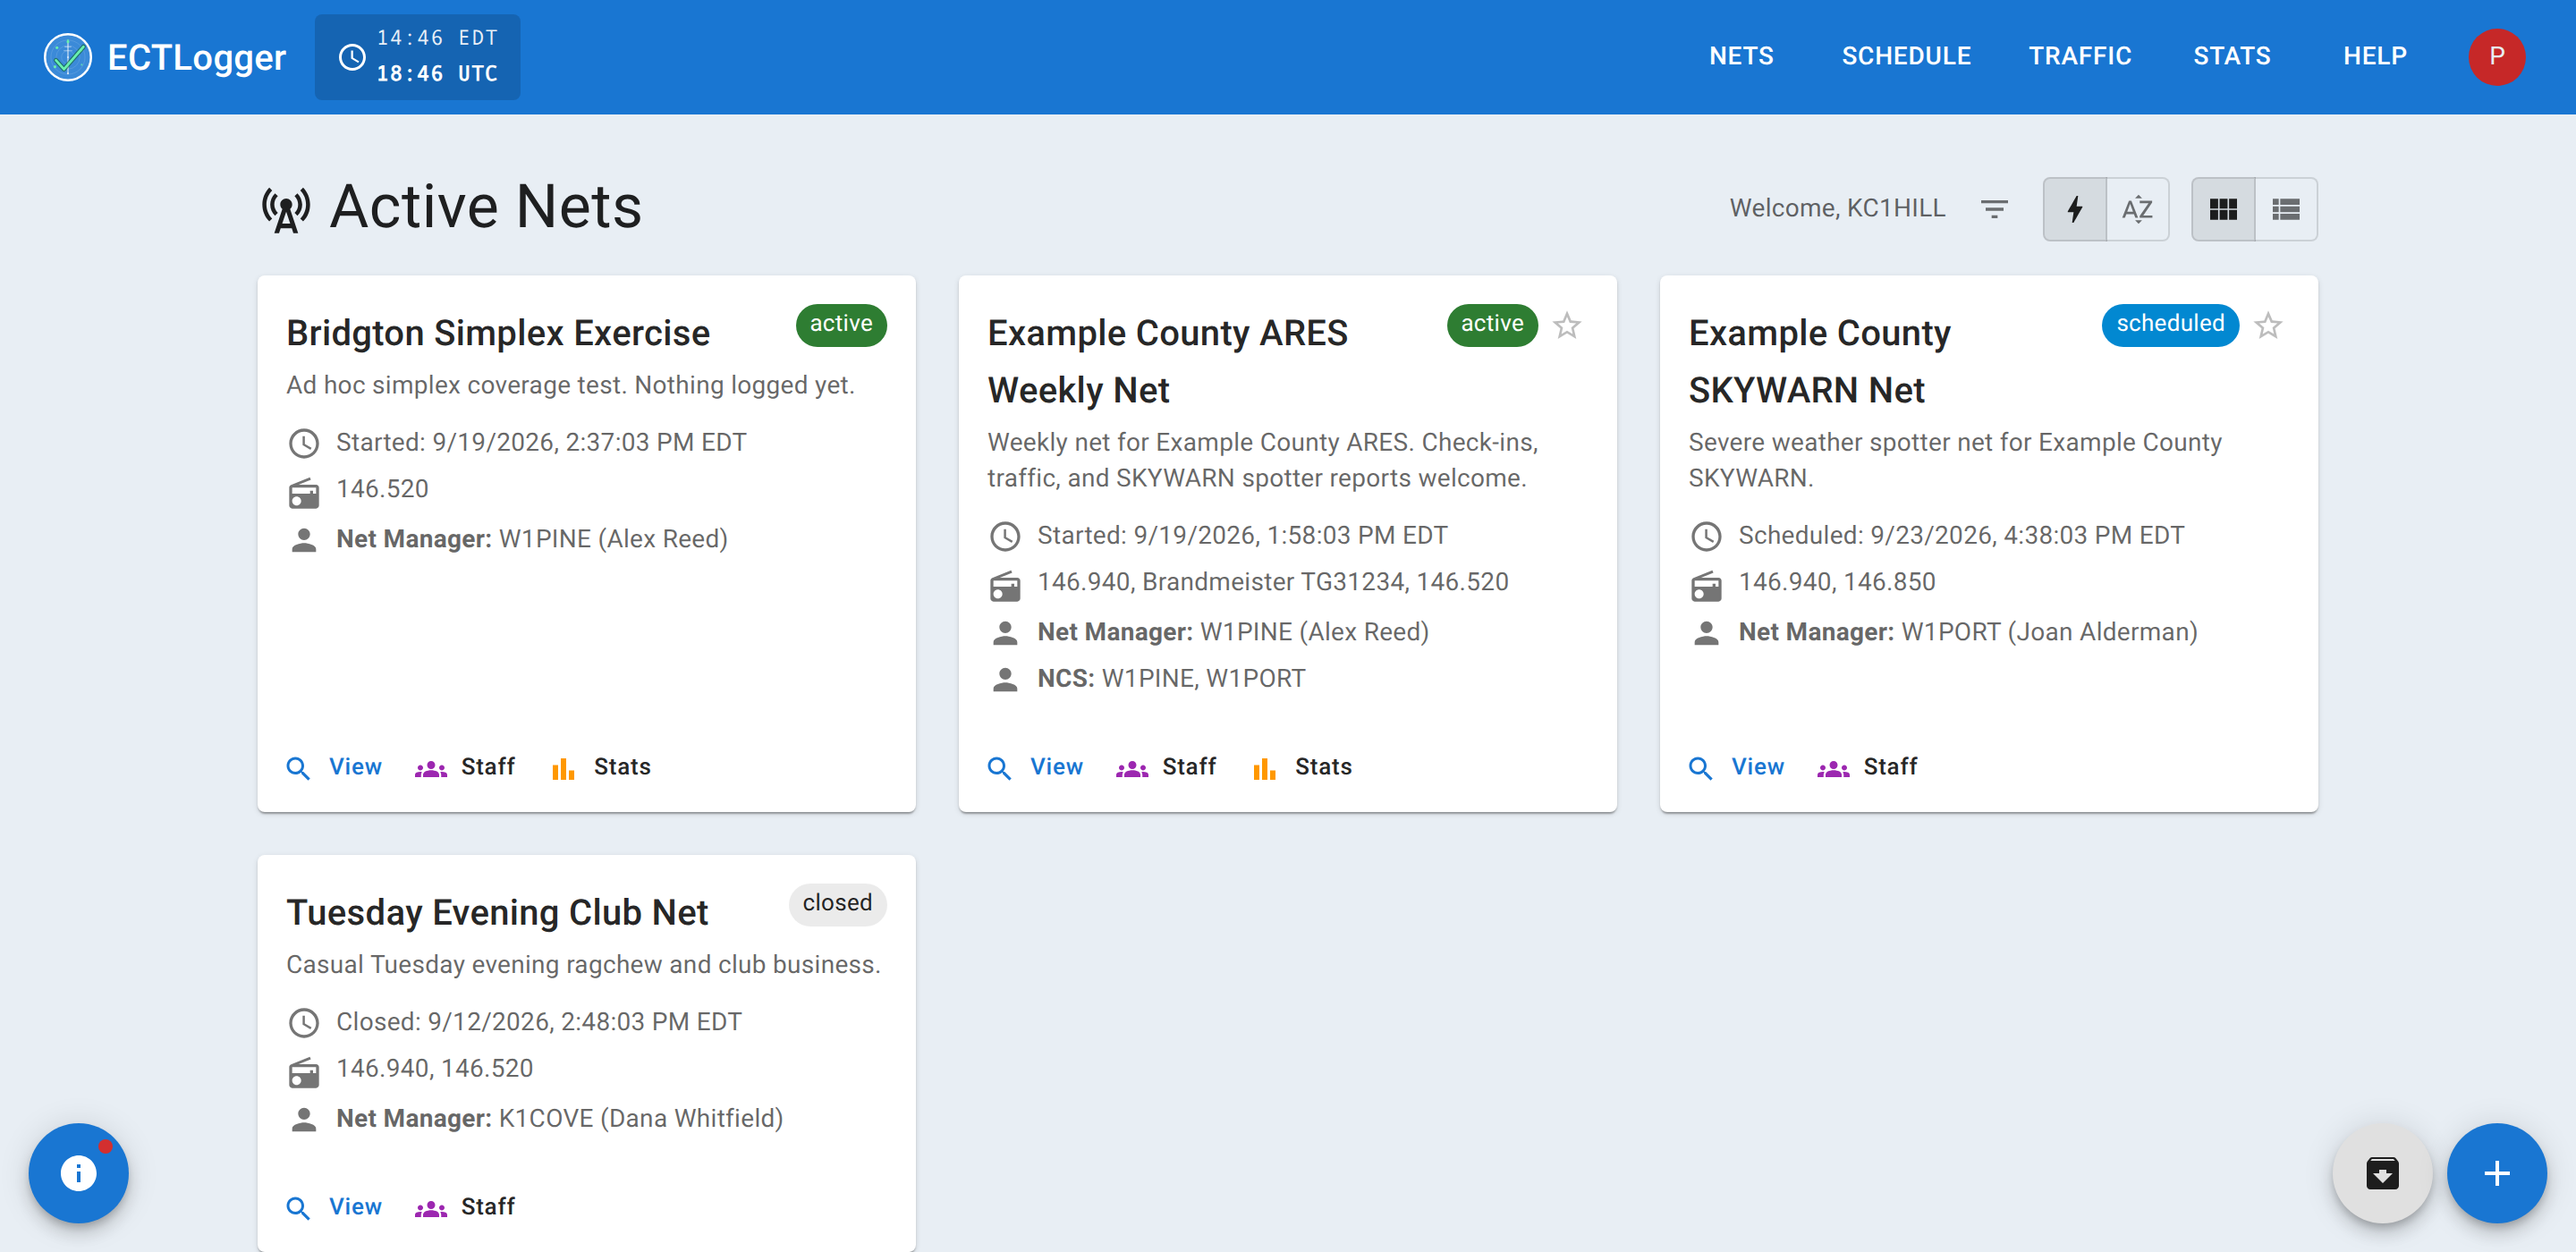
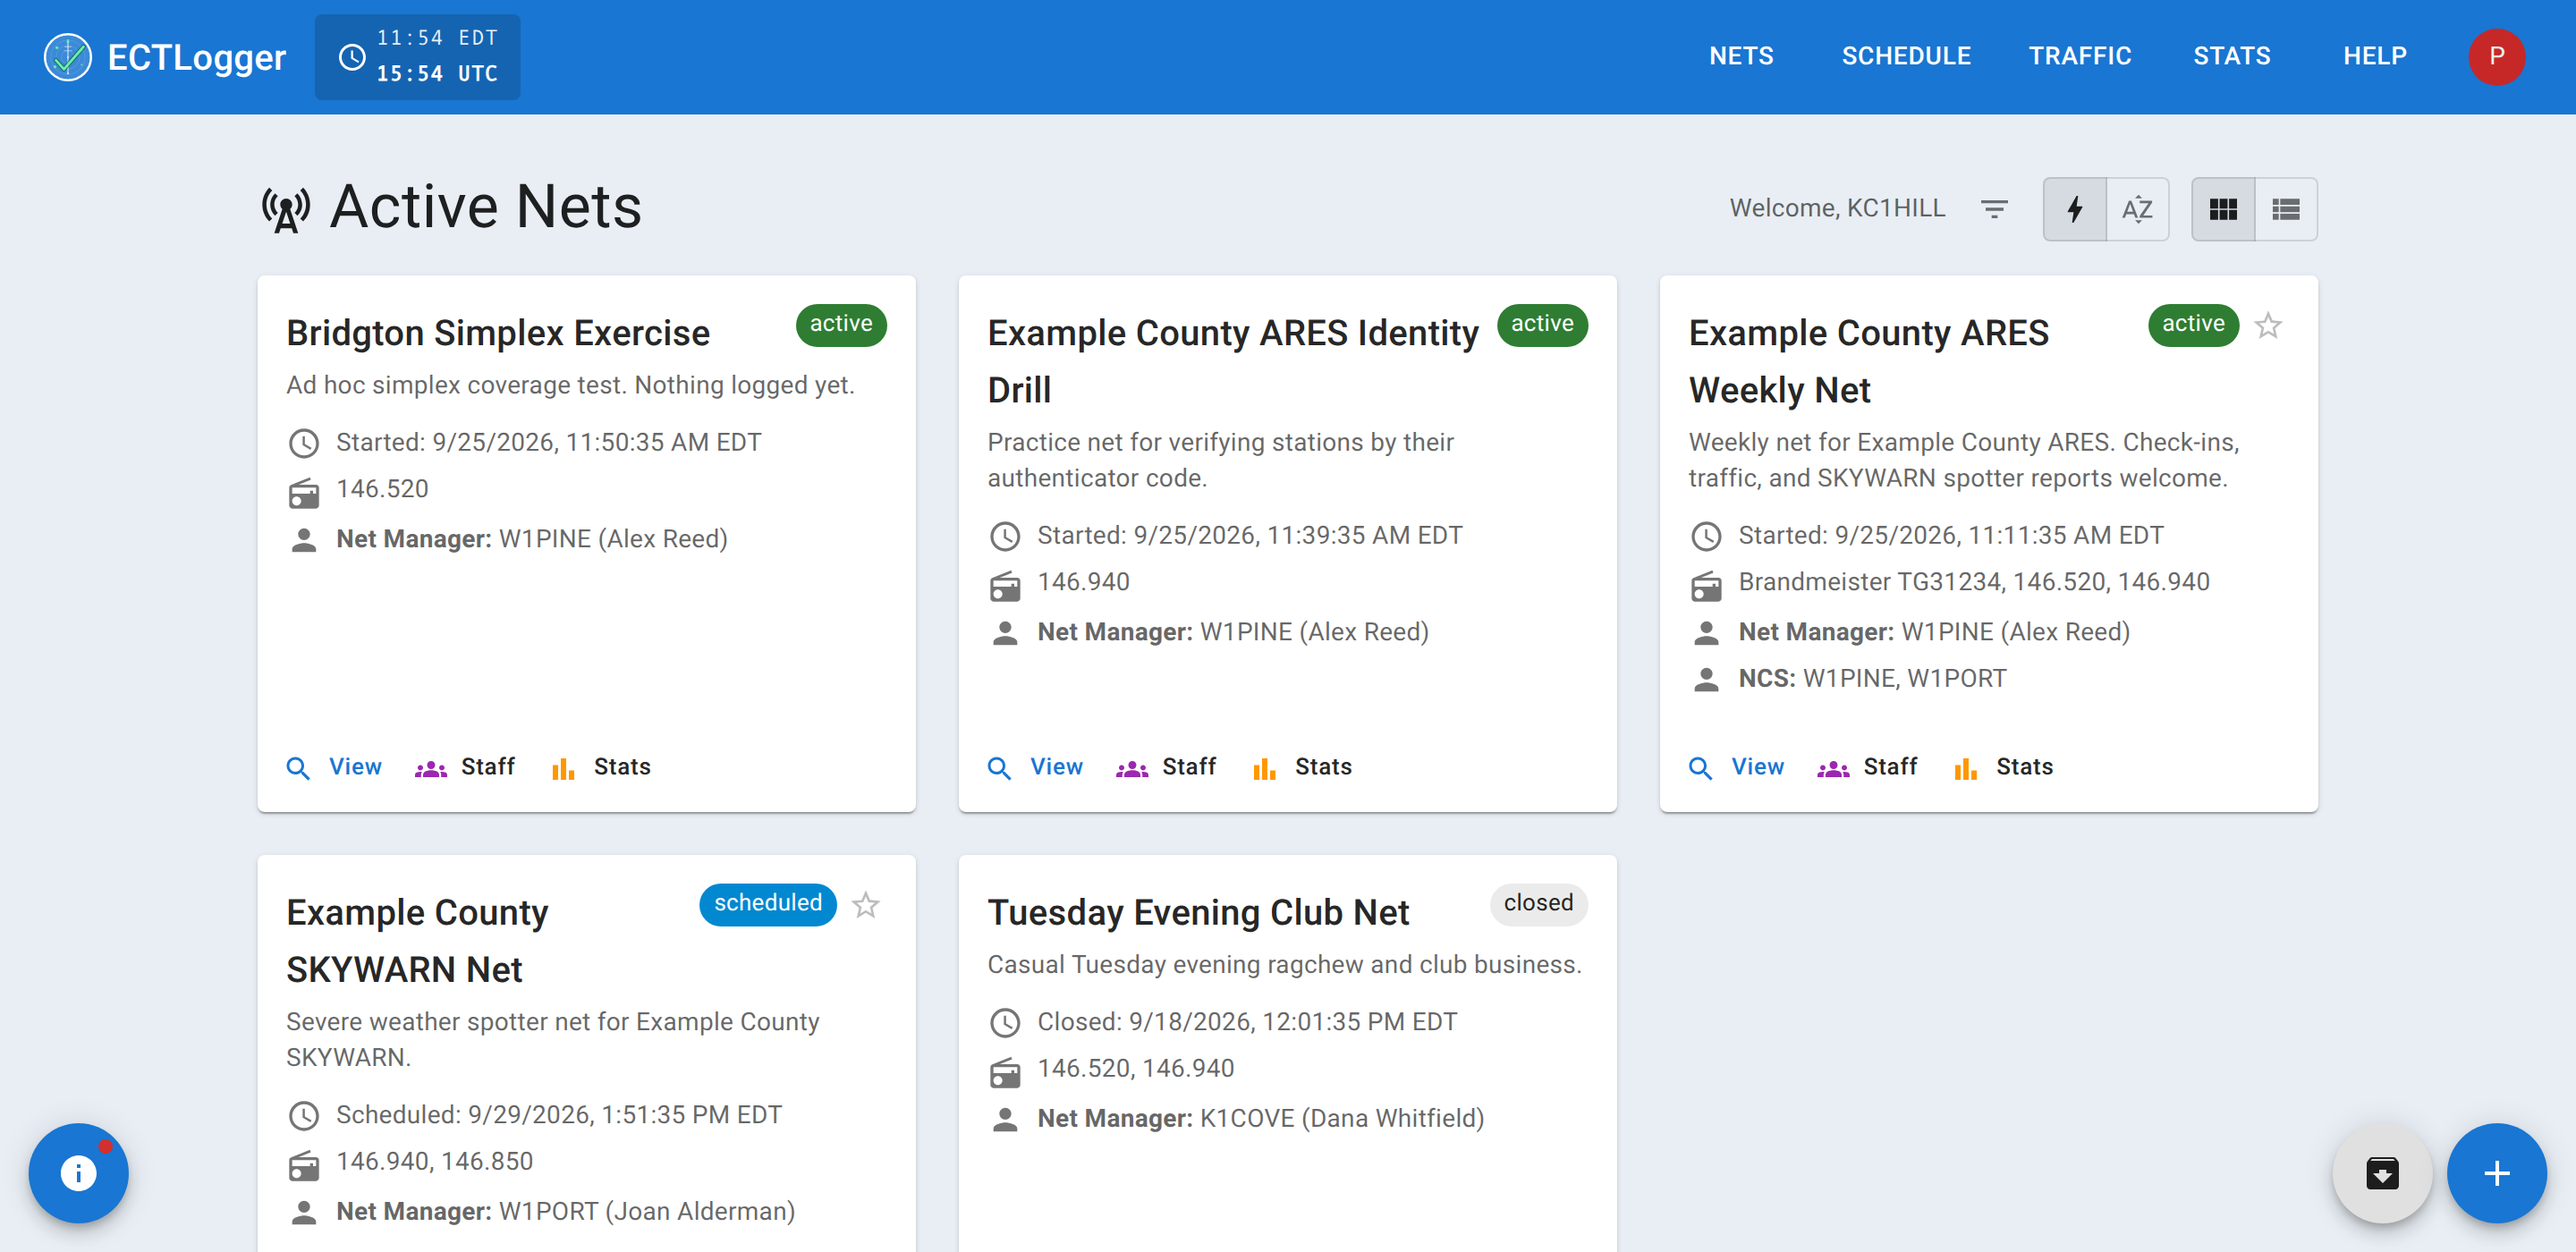
Docs: figures for authenticated nets and the multi-monitor desk
The authenticated nets page had no figure and the multi-monitor page, the
one the roadmap said needed pictures most, had two. Adds four, all
generated from the demo seed:
- identity-padlocks and identity-verify-dialog on Authenticated nets
- detached-panel and ultrawide-desk on Multiple monitors

The seed gains Net E, an authenticated net whose rows cover every padlock
state the page describes: verified, verifiable, an account with no
two-factor, and a guest. Its MFA accounts are ones no figure signs in as;
their secrets go in the manifest's mfa_secrets, which capture.mjs already
reads.

The extra net changes the dashboard, so dashboard-net-list is regenerated
and its alt text no longer states a card count (it said three while the
seed already had four).

Claude-Session: https://claude.ai/code/session_01Dz2y8UqRYDV67EQZaZUje3

diff --git a/backend/scripts/seed_demo_data.py b/backend/scripts/seed_demo_data.py
@@ -584,6 +584,62 @@ async def _build(db_path: Path, out_path: Path):
         await db.refresh(net_unstaffed)
 
         # =================================================================
+        # NET E -- ACTIVE, ad hoc, Authenticated Net turned on. The only
+        # way to photograph the identity padlock and the verify dialog: every
+        # row shape the page describes is here -- a verified station, two
+        # verifiable ones, an account with no two-factor set up, and a guest
+        # check-in with no account at all. The MFA accounts are ones no
+        # figure signs in as, so enabling MFA on them cannot break a capture
+        # (capture.mjs reads their secrets from manifest["mfa_secrets"]).
+        # =================================================================
+        mfa_secrets = {}
+        for callsign in ("N1LAKE", "K1CAMP", "W2FERN"):
+            secret = generate_totp_secret()
+            users[callsign].mfa_enabled = True
+            users[callsign].mfa_secret_encrypted = encrypt_mfa_secret(secret)
+            mfa_secrets[callsign] = secret
+        auth_started = now - timedelta(minutes=12)
+        net_authenticated = Net(
+            name="Example County ARES Identity Drill",
+            description="Practice net for verifying stations by their authenticator code.",
+            owner_id=users["W1PINE"].id,
+            status=NetStatus.ACTIVE,
+            field_config=_field_config(),
+            ics309_enabled=True,
+            authenticated=True,
+            started_at=auth_started,
+            frequencies=[f_repeater],
+        )
+        db.add(net_authenticated)
+        await db.flush()
+        net_authenticated.active_frequency_id = f_repeater.id
+        db.add(NetRole(net_id=net_authenticated.id, user_id=users["W1PINE"].id, role="NCS",
+                       active_frequency_id=f_repeater.id, assigned_at=auth_started, is_active=True))
+        for callsign, minutes_after, verified in (
+            ("W1PINE", 0, False), ("N1LAKE", 2, True), ("K1CAMP", 4, False),
+            ("W2FERN", 6, False), ("N1ROVE", 8, False), ("N2OAKS", 10, False),
+        ):
+            # N2OAKS is logged as a guest (no linked account) on purpose: the
+            # page says a guest row's padlock is fixed and unclickable.
+            user = users[callsign] if callsign != "N2OAKS" else None
+            db.add(CheckIn(
+                net_id=net_authenticated.id,
+                user_id=user.id if user else None,
+                callsign=callsign,
+                name=user.name if user else "",
+                location=user.location if user else "",
+                status=StationStatus.CHECKED_IN,
+                frequency_id=f_repeater.id,
+                checked_in_at=auth_started + timedelta(minutes=minutes_after),
+                checked_in_by_id=users["W1PINE"].id,
+                identity_verified=verified,
+                identity_verified_at=(auth_started + timedelta(minutes=minutes_after + 1)) if verified else None,
+                identity_verified_by_id=users["W1PINE"].id if verified else None,
+            ))
+        await db.commit()
+        await db.refresh(net_authenticated)
+
+        # =================================================================
         # A truly custom (non-builtin) check-in field, so the admin Fields
         # tab shows more than just the shipped builtins.
         # =================================================================
@@ -603,7 +659,9 @@ async def _build(db_path: Path, out_path: Path):
             {"key": "scheduled", "id": net_scheduled.id, "name": net_scheduled.name, "status": net_scheduled.status.value, "template_id": net_scheduled.template_id},
             {"key": "closed", "id": net_closed.id, "name": net_closed.name, "status": net_closed.status.value, "template_id": net_closed.template_id},
             {"key": "unstaffed", "id": net_unstaffed.id, "name": net_unstaffed.name, "status": net_unstaffed.status.value, "template_id": net_unstaffed.template_id},
+            {"key": "authenticated", "id": net_authenticated.id, "name": net_authenticated.name, "status": net_authenticated.status.value, "template_id": net_authenticated.template_id},
         ]
+        manifest["mfa_secrets"] = mfa_secrets
 
         current_code, _prev_code = current_totp_codes(admin_totp_secret)
         manifest["admin_mfa"] = {

diff --git a/docs/net-control/authenticated-nets.md b/docs/net-control/authenticated-nets.md
@@ -18,7 +18,19 @@ A net's manager can turn on **Authenticated Net** when creating or editing a net
 
 Every check-in row on an authenticated net shows a padlock next to the callsign. An open padlock means unverified; a closed one means someone confirmed a match. Only the net's manager, an admin, NCS, or Logger can click it to act on it; everyone else sees the same padlock, read-only.
 
-Clicking it opens a dialog showing the current six-digit code ECTLogger computes for that station's account, plus the previous 30-second window's code in case it rolls over mid-sentence while you're reading it aloud together. Ask the operator to read theirs from their authenticator app, compare it to what's on screen, and confirm the match or reject it. A reject explicitly clears any earlier verification rather than just closing the dialog, so a station that was verified once doesn't stay marked as verified after failing a later check.
+<figure>
+  <img src="/docs/img/net-control/identity-padlocks.png"
+       alt="The check-in list of an authenticated net. Each callsign has a padlock beside it: closed and green for N1LAKE, whose identity was verified, greyed out for N1ROVE, whose account has no two-factor set up, and open for the others, with K1CAMP's open padlock outlined in red.">
+  <figcaption>A closed padlock means someone confirmed the station's code. Net Control clicks an open one to check it.</figcaption>
+</figure>
+
+Clicking it opens a dialog showing the current six-digit code ECTLogger computes for that station's account, plus the previous 30-second window's code in case it rolls over mid-sentence while you're reading it aloud together. Ask the operator to read theirs from their authenticator app, compare it to what's on screen, and click **Confirm Match** or **Reject**. A reject explicitly clears any earlier verification rather than just closing the dialog, so a station that was verified once doesn't stay marked as verified after failing a later check.
+
+<figure>
+  <img src="/docs/img/net-control/identity-verify-dialog.png"
+       alt="The Verify K1CAMP's Identity dialog, showing the station's current six-digit code and the one before it, with Cancel, Reject, and Confirm Match buttons.">
+  <figcaption>Ask the operator to read the code from their authenticator app and compare it with this one.</figcaption>
+</figure>
 
 This proves exactly one thing: **the operator checking in holds the TOTP secret tied to that ECTLogger account.** It's the same second factor used for two-factor login, repurposed to confirm identity over the air instead of on a login screen. It does not prove who's physically transmitting, that the account hasn't been shared, or anything about the callsign itself being correctly licensed. It only ties this check-in to that specific account with the same confidence your app's own MFA already relies on.
 

diff --git a/docs/net-control/multiple-monitors.md b/docs/net-control/multiple-monitors.md
@@ -4,7 +4,7 @@ summary: Detaching and popping out the check-in list, chat, and other panels, an
 kind: How-to
 audience: NCS, Logger, and Relay operators
 owner: KC1JMH
-revised: 2026-09-19
+revised: 2026-09-25
 review_by: 2027-09-19
 applies_to: ECTLogger, hosted and self-hosted
 permalink: /docs/net-control/multiple-monitors/
@@ -29,6 +29,12 @@ Every docked panel carries the same small row of controls in its header:
 - **Minimize** collapses a panel down to its header bar without closing it, and **Close** removes it from the layout entirely (for panels that have a genuine "not open right now" state, like Coverage and Traffic; Chat and the Activity Log are always present, so their only "put it away" move is detaching or minimizing).
 
 <figure>
+  <img src="/docs/img/net-control/detached-panel.png"
+       alt="The net view with the Traffic panel detached into a floating window that sits over the check-in list, with its own title bar controls.">
+  <figcaption>Detach keeps a panel in the same browser tab but lets you drag and resize it anywhere over the page.</figcaption>
+</figure>
+
+<figure>
   <img src="/docs/img/net-control/popped-out-checkins.png"
        alt="The check-in list open in its own bare browser window, with no navigation bar, ready to be dragged onto a second monitor.">
   <figcaption>A popped-out pane is a real second window with its own connection to the net; move it to another monitor and it keeps working on its own.</figcaption>
@@ -39,6 +45,12 @@ Every layout choice you make (what's docked, what's detached, what's popped out,
 ## On an ultrawide monitor
 
 Past a certain screen width, a second column becomes available on the left side of the page for the net's Script, Notes, and the schedule's Announcements, alongside the existing check-in-list-and-Chat layout on the right. Below that width, those three stay exactly as they've always worked: on-demand floating panels you open when you need them, rather than a fixed part of the layout. Nothing about their content changes, only whether they get a permanent spot on a genuinely wide screen.
+
+<figure>
+  <img src="/docs/img/net-control/ultrawide-desk.png"
+       alt="The whole net view on an ultrawide monitor, in three columns: the schedule's Announcements and the net's Notes docked on the left, the check-in list in the middle, and Chat with the Activity Log on the right.">
+  <figcaption>At ultrawide widths, Script, Notes, and Announcements get a column of their own instead of floating over the list.</figcaption>
+</figure>
 
 ## Next
 

diff --git a/docs/operators/finding-a-net.md b/docs/operators/finding-a-net.md
@@ -30,7 +30,7 @@ By default, nets are sorted with Active and Lobby first (most recently started a
 
 <figure>
   <img src="/docs/img/operators/dashboard-net-list.png"
-       alt="The ECTLogger dashboard, showing three net cards side by side with status chips reading active, scheduled, and closed.">
+       alt="The ECTLogger dashboard, showing a grid of net cards, each with a status chip reading active, scheduled, or closed.">
   <figcaption>Nets you can still take part in sort ahead of ones that are over.</figcaption>
 </figure>
 
